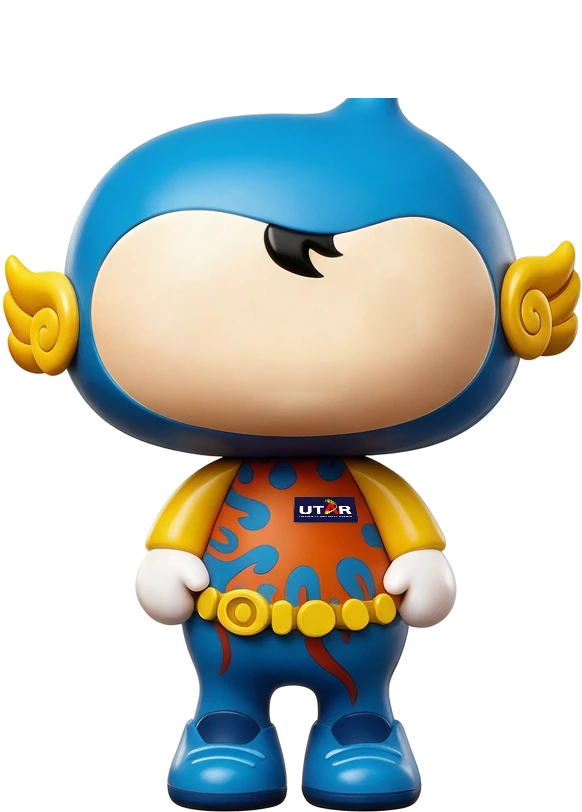
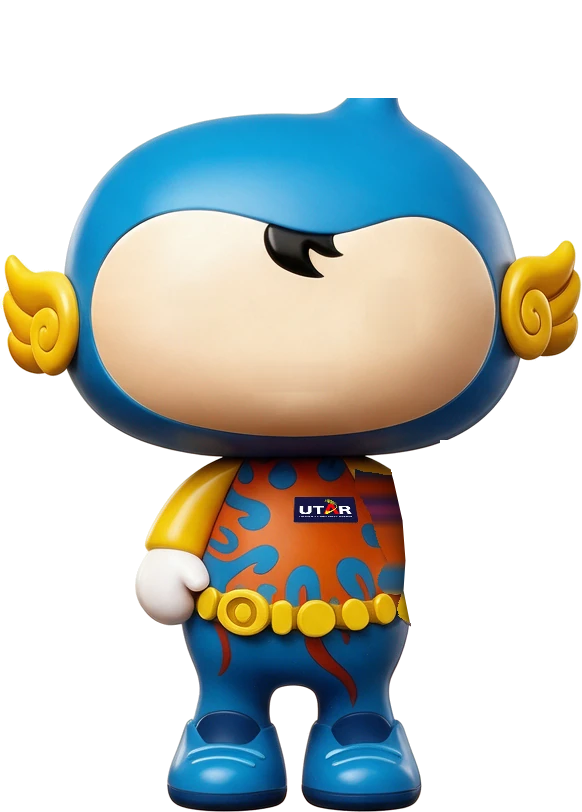
Mascot waves: arm rigged from the illustration; lively idle gestures
His right arm is now its own layer (the body side behind it painted in), with
a shoulder cap over the joint and his head drawn over the arm so a raised
hand tucks behind it. He waves hello after the entrance, waves back at
"hi" and on a thumbs-up, and on the empty chat and splash he does one
small thing every 8-16 s (wave, smile, hop or look around).

Changed region(s): [[0.5876, 0.5542, 0.8041, 0.8005]]

diff --git a/components/Mascot.tsx b/components/Mascot.tsx
@@ -6,7 +6,10 @@ import { useEffect, useRef, useState } from "react";
 /**
  * The UTARCHAT mascot, rigged from one illustration (public/mascot/): a body
  * with the face painted out, plus separate eyes, mouth and sprout layers, so
- * he can blink, glance, wiggle his sprout, hop and change expression.
+ * he can blink, glance, wiggle his sprout, hop and change expression. His
+ * right arm is its own layer too (the body side behind it is painted in), so
+ * he can wave. A shoulder cap hides the joint, and his head is drawn again
+ * over the arm so a raised hand tucks behind it.
  * Coordinates are pixels in the 582 × 812 cut-out.
  *
  * crop "full" is the whole figure (with a floor shadow), "bust" a square from
@@ -24,7 +27,12 @@ const LAYERS = {
     eyeL: { x: 170, y: 283, w: 47, h: 62 },
     eyeR: { x: 368, y: 281, w: 48, h: 62 },
     mouth: { x: 254, y: 362, w: 87, h: 30 },
+    arm: { x: 355, y: 469, w: 102, h: 153 },
+    shoulder: { x: 372, y: 473, w: 41, h: 23 },
+    headfront: { x: 300, y: 120, w: 282, h: 346 },
 };
+// The arm pivots at the shoulder.
+const ARM_ORIGIN = `${((395 - 355) / 102) * 100}% ${((471 - 469) / 153) * 100}%`;
 // The sprout pivots where its stem meets the head.
 const SPROUT_ORIGIN = `${((372 - 270) / 231) * 100}% ${(110 / 112) * 100}%`;
 
@@ -43,6 +51,8 @@ export default function Mascot({
     mood = "idle",
     entrance = false,
     hop = 0,
+    wave = 0,
+    lively = false,
     float = crop === "full",
     onClick,
     alt = "",
@@ -54,6 +64,10 @@ export default function Mascot({
     entrance?: boolean;
     /** Change this number to make him hop. */
     hop?: number;
+    /** Change this number to make him wave. */
+    wave?: number;
+    /** Now and then, on his own: wave, smile, hop or look around. */
+    lively?: boolean;
     float?: boolean;
     onClick?: () => void;
     alt?: string;
@@ -64,7 +78,37 @@ export default function Mascot({
     const [blink, setBlink] = useState(false);
     const [look, setLook] = useState({ x: 0, y: 0 });
     const [greeting, setGreeting] = useState(entrance && !reduce);
+    const [beaming, setBeaming] = useState(false);
     const sproutRef = useRef<HTMLImageElement>(null);
+    const armRef = useRef<HTMLImageElement>(null);
+    const busy = useRef(false);
+
+    const boing = (amount = 1) => {
+        if (sproutRef.current) animate(sproutRef.current, { rotate: [0, -14 * amount, 9 * amount, -4 * amount, 0] }, { duration: 0.8 });
+    };
+
+    // Raise the arm, wave a few times with a smile, lower it.
+    const doWave = async () => {
+        if (reduce || !armRef.current || busy.current) return;
+        busy.current = true;
+        setBeaming(true);
+        const arm = armRef.current;
+        await animate(arm, { rotate: -96 }, { type: "spring", stiffness: 210, damping: 17 });
+        await animate(arm, { rotate: [-96, -114, -86, -114, -92] }, { duration: 1.15, ease: "easeInOut" });
+        setBeaming(false);
+        await animate(arm, { rotate: 0 }, { type: "spring", stiffness: 170, damping: 19 });
+        busy.current = false;
+    };
+
+    const doHop = async () => {
+        if (reduce || !scope.current) return;
+        await animate(scope.current, { scaleX: 1.08, scaleY: 0.9, y: "0%" }, { duration: 0.08 });
+        await animate(scope.current, { scaleX: 0.95, scaleY: 1.06, y: "-14%" }, { duration: 0.2, ease: [0.2, 0.8, 0.3, 1] });
+        await animate(scope.current, { scaleX: 1, scaleY: 1, y: "0%" }, { duration: 0.22, ease: [0.5, 0, 0.8, 0.4] });
+        await animate(scope.current, { scaleX: 1.08, scaleY: 0.92 }, { duration: 0.07 });
+        animate(scope.current, { scaleX: 1, scaleY: 1 }, { type: "spring", stiffness: 600, damping: 14 });
+        boing();
+    };
 
     // Entrance: drop, squash on landing, spring back, sprout boing.
     useEffect(() => {
@@ -76,7 +120,10 @@ export default function Mascot({
             await animate(scope.current, { scaleX: 1.1, scaleY: 0.88 }, { duration: 0.09, ease: "easeOut" });
             animate(scope.current, { scaleX: 1, scaleY: 1 }, { type: "spring", stiffness: 600, damping: 12 });
             if (sproutRef.current) animate(sproutRef.current, { rotate: [0, -16, 11, -6, 3, 0] }, { duration: 0.9, ease: "easeOut" });
-            setTimeout(() => !cancelled && setGreeting(false), 1500);
+            await new Promise((r) => setTimeout(r, 250));
+            if (cancelled) return;
+            await doWave();
+            if (!cancelled) setGreeting(false);
         })();
         return () => {
             cancelled = true;
@@ -84,19 +131,45 @@ export default function Mascot({
         // eslint-disable-next-line react-hooks/exhaustive-deps
     }, []);
 
-    // Hop on request: crouch, jump, land with a squash.
+    // Hop or wave on request.
     useEffect(() => {
-        if (!hop || reduce || !scope.current) return;
-        (async () => {
-            await animate(scope.current, { scaleX: 1.08, scaleY: 0.9, y: "0%" }, { duration: 0.08 });
-            await animate(scope.current, { scaleX: 0.95, scaleY: 1.06, y: "-14%" }, { duration: 0.2, ease: [0.2, 0.8, 0.3, 1] });
-            await animate(scope.current, { scaleX: 1, scaleY: 1, y: "0%" }, { duration: 0.22, ease: [0.5, 0, 0.8, 0.4] });
-            await animate(scope.current, { scaleX: 1.08, scaleY: 0.92 }, { duration: 0.07 });
-            animate(scope.current, { scaleX: 1, scaleY: 1 }, { type: "spring", stiffness: 600, damping: 14 });
-            if (sproutRef.current) animate(sproutRef.current, { rotate: [0, -14, 9, -4, 0] }, { duration: 0.8 });
-        })();
+        if (hop) doHop();
         // eslint-disable-next-line react-hooks/exhaustive-deps
     }, [hop]);
+    useEffect(() => {
+        if (wave) doWave();
+        // eslint-disable-next-line react-hooks/exhaustive-deps
+    }, [wave]);
+
+    // Lively: every 8-16 s, one small thing (never while thinking or sheepish).
+    const moodRef = useRef(mood);
+    moodRef.current = mood;
+    useEffect(() => {
+        if (!lively || reduce) return;
+        let t: ReturnType<typeof setTimeout>;
+        const loop = (first = false) => {
+            t = setTimeout(() => {
+                if (moodRef.current === "idle" && !busy.current && document.visibilityState === "visible") {
+                    const r = Math.random();
+                    if (r < 0.35) doWave();
+                    else if (r < 0.7) {
+                        setBeaming(true);
+                        boing(0.6);
+                        setTimeout(() => setBeaming(false), 1500);
+                    } else if (r < 0.85) doHop();
+                    else {
+                        setLook({ x: -3, y: 0 });
+                        setTimeout(() => setLook({ x: 3, y: 0 }), 700);
+                        setTimeout(() => setLook({ x: 0, y: 0 }), 1500);
+                    }
+                }
+                loop();
+            }, (first ? 6000 : 8000) + Math.random() * 8000);
+        };
+        loop(true);
+        return () => clearTimeout(t);
+        // eslint-disable-next-line react-hooks/exhaustive-deps
+    }, [lively, reduce]);
 
     // Blink every few seconds (sometimes twice), and now and then glance around.
     useEffect(() => {
@@ -126,7 +199,7 @@ export default function Mascot({
         };
     }, [reduce]);
 
-    const shownMood: MascotMood = greeting ? "happy" : mood;
+    const shownMood: MascotMood = (greeting || beaming) && (mood === "idle" || mood === "happy") ? "happy" : mood;
     const closedEyes = shownMood === "happy" || shownMood === "sheepish";
     const eyeLook = shownMood === "thinking" ? { x: 3, y: -4 } : look;
     const viewH = crop === "bust" ? BUST : H;
@@ -158,6 +231,16 @@ export default function Mascot({
                     transition={{ y: { duration: 3.4, repeat: Infinity, ease: "easeInOut" }, rotate: SPRING }}
                 >
                     <img src="/mascot/base.webp" alt="" draggable={false} className="absolute inset-0 h-full w-full select-none" />
+                    <motion.img
+                        ref={armRef}
+                        src="/mascot/arm.webp"
+                        alt=""
+                        draggable={false}
+                        className="absolute select-none"
+                        style={{ ...box(LAYERS.arm), transformOrigin: ARM_ORIGIN }}
+                    />
+                    <img src="/mascot/shoulder.webp" alt="" draggable={false} className="absolute select-none" style={box(LAYERS.shoulder)} />
+                    <img src="/mascot/headfront.webp" alt="" draggable={false} className="absolute select-none" style={box(LAYERS.headfront)} />
                     {/* Sprout: the wrapper sways, the image boings (on landing and hops). */}
                     <motion.div className="absolute" style={{ ...box(LAYERS.sprout), transformOrigin: SPROUT_ORIGIN }} animate={sproutIdle}>
                         <motion.img

diff --git a/components/ChatClient.tsx b/components/ChatClient.tsx
@@ -184,6 +184,7 @@ export default function ChatClient() {
     // The mascot in the header reacts: thinking while we answer, happy on a 👍, sheepish when an answer fails.
     const [mascotReaction, setMascotReaction] = useState<MascotMood | null>(null);
     const [mascotHop, setMascotHop] = useState(0);
+    const [mascotWave, setMascotWave] = useState(0);
     // null until the splash says whether it is showing; the mascot drops in once it is gone.
     const [splashOpen, setSplashOpen] = useState<boolean | null>(null);
     const reactionTimer = useRef<ReturnType<typeof setTimeout> | null>(null);
@@ -283,7 +284,7 @@ export default function ChatClient() {
         msg: Message,
         rating: "like" | "dislike"
     ) => {
-        if (rating === "like") react("happy", 1800, true);
+        if (rating === "like") setMascotWave((w) => w + 1);
         const userMsg = messages[index - 1];
         const userQuery = userMsg?.role === "user" ? userMsg.text : "";
         let screenshotBase64 = "";
@@ -558,6 +559,8 @@ export default function ChatClient() {
 
     const handleSend = async (override?: string, base?: Message[]) => {
         const trimmed = (override ?? input).trim();
+        // Say hi and he waves back.
+        if (/^(hi|hello|hey|hai|helo|hallo|yo|salam|assalamualaikum|你好|嗨|哈喽|哈囉)\b/i.test(trimmed) || /^(你好|嗨|哈喽)/.test(trimmed)) setMascotWave((w) => w + 1);
 
         if (!trimmed || loading) return;
         // A light tap on phones that support it (Android); iOS ignores it.
@@ -765,7 +768,7 @@ export default function ChatClient() {
                     <div className="flex min-w-0 items-center gap-2.5">
                         <button onClick={newChat} aria-label={t.ui.newChat} title={t.ui.newChat} className="shrink-0 rounded-xl transition active:scale-95">
                             <span className="block h-10 w-10 overflow-hidden rounded-full bg-gradient-to-b from-sky-100 to-indigo-100 ring-1 ring-black/5 dark:from-sky-900/50 dark:to-indigo-900/50 dark:ring-white/10">
-                                <Mascot crop="bust" float={false} mood={loading ? "thinking" : mascotReaction ?? "idle"} hop={mascotHop} alt="UTARCHAT" className="mx-auto mt-[4px] w-[92%]" />
+                                <Mascot crop="bust" float={false} mood={loading ? "thinking" : mascotReaction ?? "idle"} hop={mascotHop} wave={mascotWave} alt="UTARCHAT" className="mx-auto mt-[4px] w-[92%]" />
                             </span>
                         </button>
                         <div className="min-w-0">
@@ -821,7 +824,7 @@ export default function ChatClient() {
                     {showWelcome && (
                         <motion.section initial={{ opacity: 0, y: 12 }} animate={{ opacity: 1, y: 0 }} transition={{ duration: 0.4, ease: "easeOut" }} className="pt-6 text-center sm:pt-12">
                             {splashOpen === false ? (
-                                <Mascot entrance hop={mascotHop} mood={mascotReaction ?? "idle"} onClick={() => react("happy", 1200, true)} className="mx-auto w-[96px] sm:w-[112px]" />
+                                <Mascot entrance lively hop={mascotHop} mood={mascotReaction ?? "idle"} onClick={() => setMascotWave((w) => w + 1)} className="mx-auto w-[96px] sm:w-[112px]" />
                             ) : (
                                 <div aria-hidden className="mx-auto aspect-[582/812] w-[96px] sm:w-[112px]" />
                             )}

diff --git a/components/WelcomeSplash.tsx b/components/WelcomeSplash.tsx
@@ -155,7 +155,7 @@ export default function WelcomeSplash({
                         {tile(
                             "col-span-2 flex min-h-[300px] flex-col items-center justify-center overflow-hidden rounded-[30px] p-6 text-white sm:col-span-4 xl:min-h-0 xl:[grid-area:hero] bg-[radial-gradient(120%_90%_at_85%_100%,rgba(227,24,55,0.85)_0%,rgba(227,24,55,0)_55%),linear-gradient(150deg,#1b1a4a_0%,#1e3a8a_55%,#2347a8_100%)]",
                             <>
-                                <Mascot entrance hop={heroHop} onClick={() => setHeroHop((h) => h + 1)} alt="The UTARCHAT mascot" className="w-[104px] drop-shadow-[0_18px_30px_rgba(10,12,40,0.45)] xl:w-[112px] 2xl:w-[150px]" />
+                                <Mascot entrance lively hop={heroHop} onClick={() => setHeroHop((h) => h + 1)} alt="The UTARCHAT mascot" className="w-[104px] drop-shadow-[0_18px_30px_rgba(10,12,40,0.45)] xl:w-[112px] 2xl:w-[150px]" />
                                 <h1 className="mt-5 whitespace-nowrap text-6xl font-extrabold tracking-[-0.04em] sm:text-7xl xl:text-[min(6rem,calc(5.2vw-8px))]">UTARCHAT</h1>
                                 <button
                                     onClick={() => setNoticeOpen(true)}
